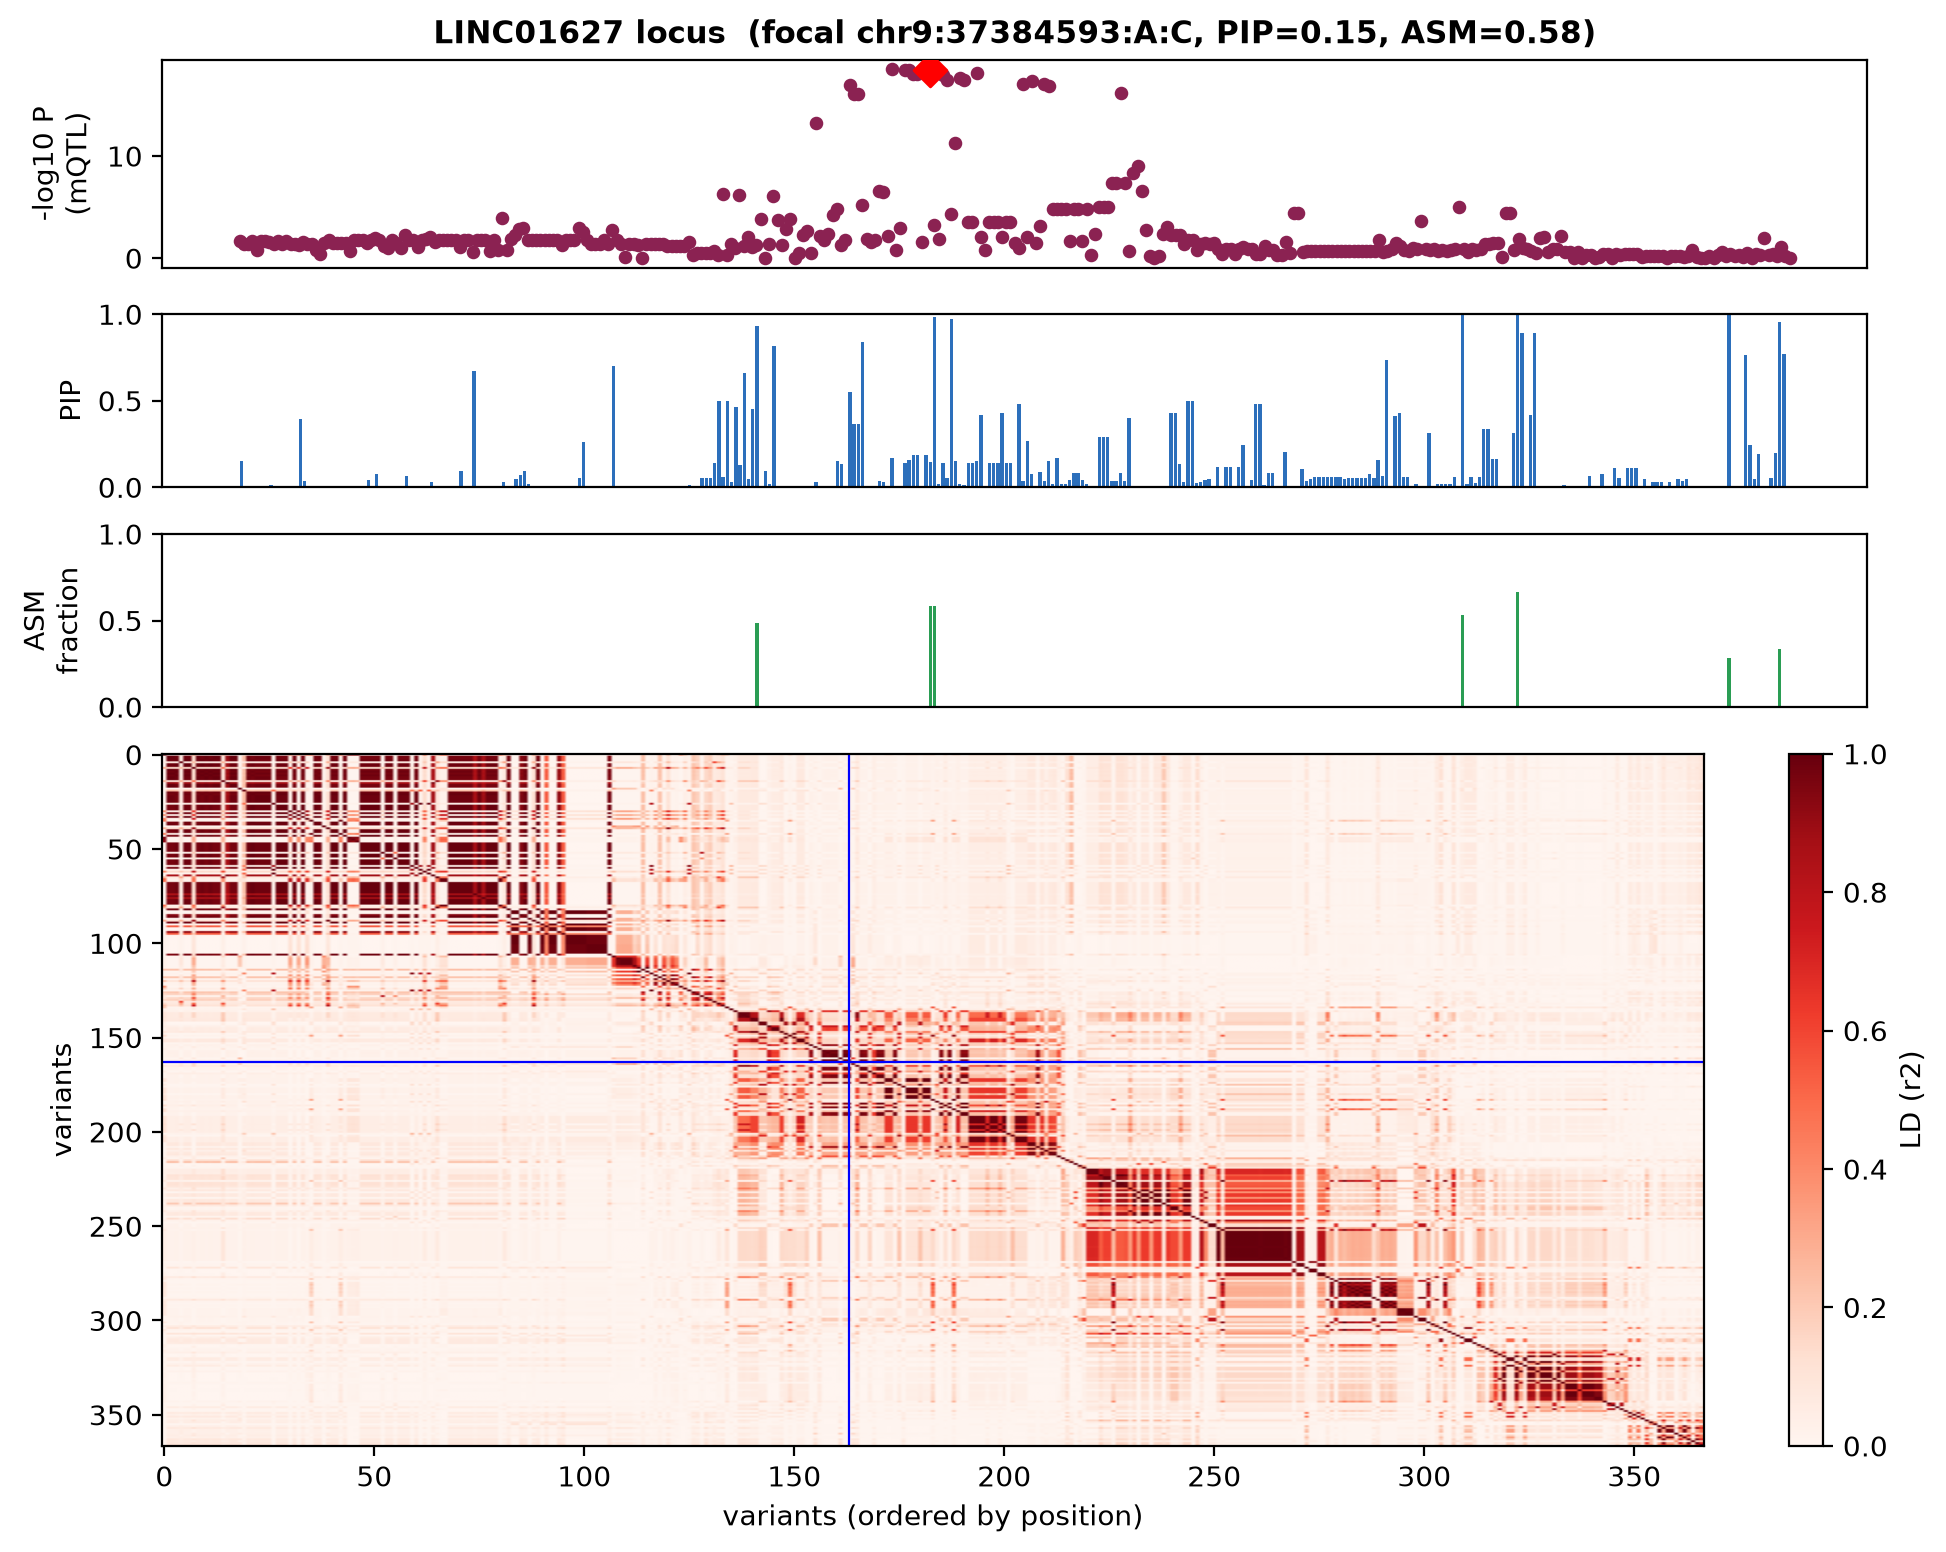
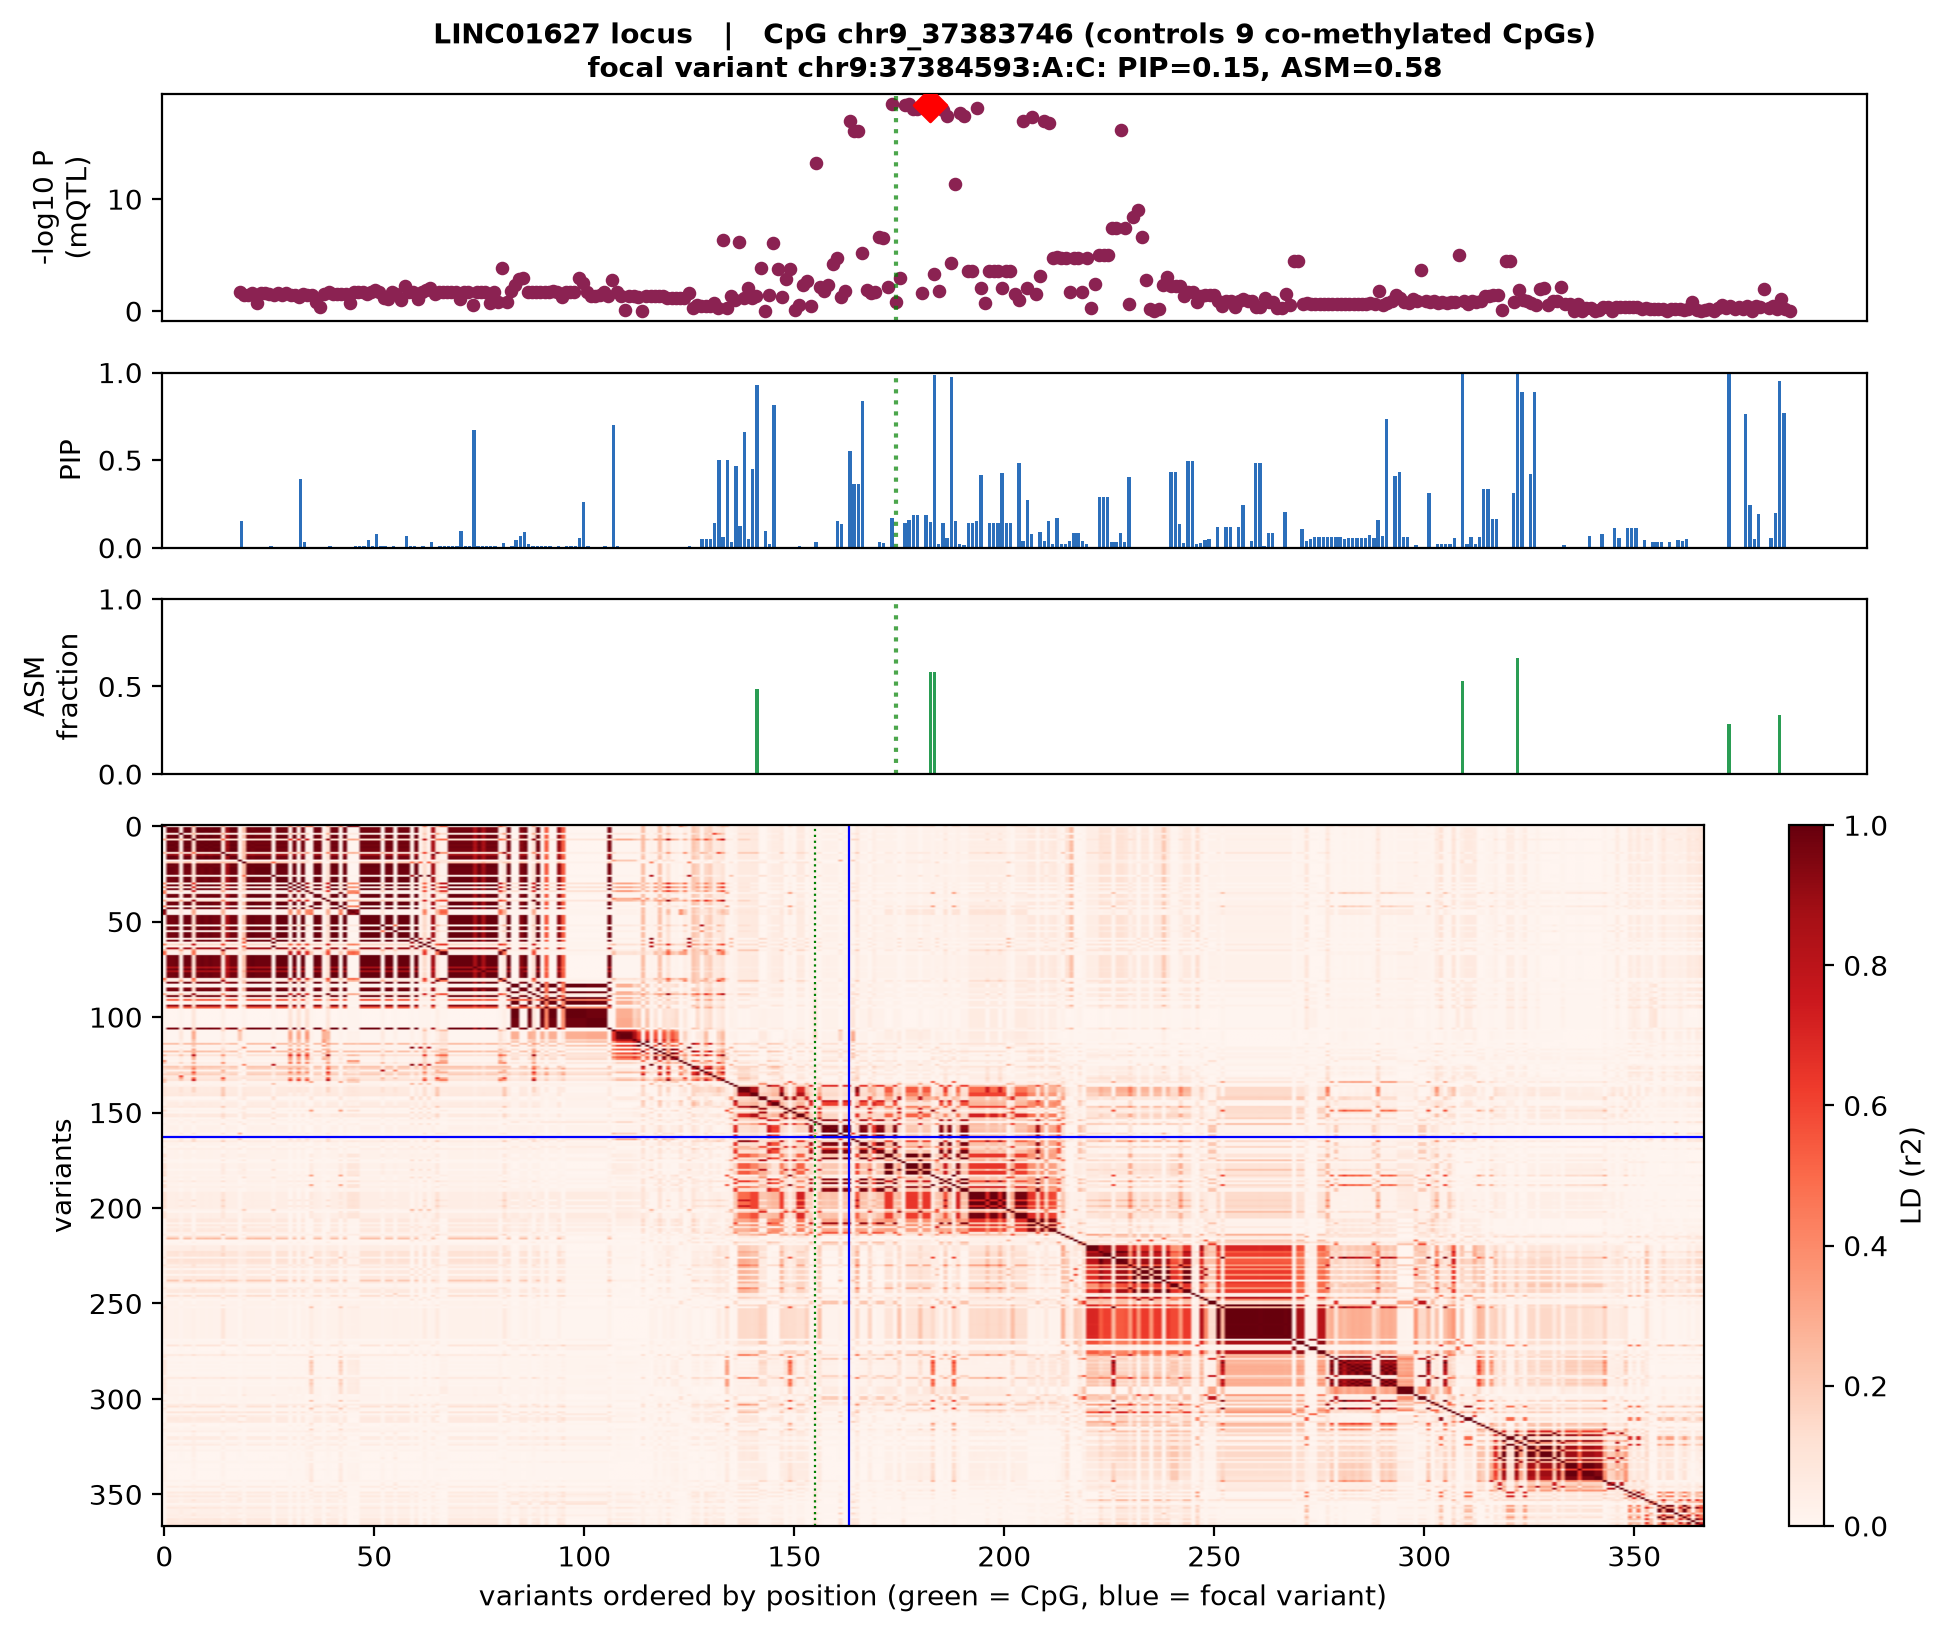
LD block plots: add CpG context (CpG ID + n_cpgs co-methylation domain + CpG position marker across all tracks)

diff --git a/scripts/coloc/ld_block_plot.py b/scripts/coloc/ld_block_plot.py
@@ -5,7 +5,11 @@ from pandas_plink import read_plink1_bin
 plt.rcParams.update({"font.size":10,"savefig.dpi":200,"savefig.bbox":"tight","figure.facecolor":"white"})
 G="/g/data/cy94/rs4477/downstream/genome_452"
 focal=sys.argv[1]; cpg=sys.argv[2]; gene=sys.argv[3]; out=sys.argv[4]; win=int(sys.argv[5]) if len(sys.argv)>5 else 50000
-chrom=focal.split(':')[0]; fpos=int(focal.split(':')[1])
+chrom=focal.split(':')[0]; fpos=int(focal.split(':')[1]); cpg_pos=int(cpg.split('_')[1])
+try:
+    e=pd.read_csv(G+"/genome.prioritised_variant_level.enriched.txt.gz",sep="\t",usecols=['variant_id','n_cpgs'])
+    ncpg=int(e[e.variant_id==focal].n_cpgs.max()) if (e.variant_id==focal).any() else 0
+except: ncpg=0
 pth=f"{G}/{chrom}/nominal/{chrom}.sig.cis_qtl_pairs.{chrom}.parquet"
 if chrom in ['chr1','chr2']: pth=f"{G}/{chrom}/nominal/{chrom}.sig.merged.parquet"
 pf=pq.ParquetFile(pth); fr=[]
@@ -15,26 +19,29 @@ for i in range(pf.num_row_groups):
 m=pd.concat(fr)
 p=m.variant_id.str.split(':',expand=True); m['pos']=p[1].astype(int)
 m=m[(m.pos>fpos-win)&(m.pos<fpos+win)].sort_values('pos').reset_index(drop=True)
-if len(m)<3: print("too few variants:",len(m)); sys.exit()
+if len(m)<3: print("too few:",len(m)); sys.exit()
 bf=f"/scratch/cy94/rs4477/coloc/ldref/{chrom}"
 Gb=read_plink1_bin(bf+".bed",bf+".bim",bf+".fam",verbose=False)
 avail=set(Gb.snp.values); m=m[m.variant_id.isin(avail)].reset_index(drop=True)
-if len(m)<3: print("too few after LD filter"); sys.exit()
+if len(m)<3: print("too few after LD"); sys.exit()
 sub=Gb.sel(snp=list(m.variant_id)).values.astype(float)
 cmn=np.nanmean(sub,axis=0); inds=np.where(np.isnan(sub)); sub[inds]=np.take(cmn,inds[1])
 ld=np.corrcoef(sub.T)**2
 cl=pd.read_csv(G+"/genome.prioritised_final_asm_classified.txt.gz",sep="\t",usecols=['variant_id','pip','asm_frac_fisher'])
 m=m.merge(cl,on='variant_id',how='left')
 n=len(m); x=np.arange(n)
-fig=plt.figure(figsize=(11,9)); gs=GridSpec(4,1,height_ratios=[1.2,1,1,4],hspace=0.15)
+cpg_idx=int(np.argmin(np.abs(m.pos.values-cpg_pos)))
 fi=list(m.variant_id).index(focal) if focal in list(m.variant_id) else int(np.argmax(-np.log10(m.pval_nominal)))
+fig=plt.figure(figsize=(11,9.3)); gs=GridSpec(4,1,height_ratios=[1.3,1,1,4],hspace=0.16)
 ax0=fig.add_subplot(gs[0]); ax0.scatter(x,-np.log10(m.pval_nominal),c='#8B2252',s=15)
 ax0.scatter(fi,-np.log10(m.pval_nominal.iloc[fi]),c='red',s=70,marker='D',zorder=5)
-ax0.set_ylabel('-log10 P\n(mQTL)'); ax0.set_xticks([]); ax0.set_title(f'{gene} locus  (focal {focal}, PIP={m.pip.iloc[fi]:.2f}, ASM={m.asm_frac_fisher.iloc[fi]:.2f})',fontweight='bold',fontsize=11)
-ax1=fig.add_subplot(gs[1]); ax1.bar(x,m.pip.fillna(0),color='#2c6fbb'); ax1.set_ylabel('PIP'); ax1.set_xticks([]); ax1.set_ylim(0,1)
-ax2=fig.add_subplot(gs[2]); ax2.bar(x,m.asm_frac_fisher.fillna(0),color='#2a9d54'); ax2.set_ylabel('ASM\nfraction'); ax2.set_xticks([]); ax2.set_ylim(0,1)
+ax0.axvline(cpg_idx,color='green',ls=':',lw=1.5,alpha=0.7)
+ax0.set_ylabel('-log10 P\n(mQTL)'); ax0.set_xticks([])
+ax0.set_title(f'{gene} locus   |   CpG {cpg} (controls {ncpg} co-methylated CpGs)\nfocal variant {focal}: PIP={m.pip.iloc[fi]:.2f}, ASM={m.asm_frac_fisher.iloc[fi]:.2f}',fontweight='bold',fontsize=10)
+ax1=fig.add_subplot(gs[1]); ax1.bar(x,m.pip.fillna(0),color='#2c6fbb'); ax1.axvline(cpg_idx,color='green',ls=':',lw=1.5,alpha=0.7); ax1.set_ylabel('PIP'); ax1.set_xticks([]); ax1.set_ylim(0,1)
+ax2=fig.add_subplot(gs[2]); ax2.bar(x,m.asm_frac_fisher.fillna(0),color='#2a9d54'); ax2.axvline(cpg_idx,color='green',ls=':',lw=1.5,alpha=0.7); ax2.set_ylabel('ASM\nfraction'); ax2.set_xticks([]); ax2.set_ylim(0,1)
 ax3=fig.add_subplot(gs[3]); im=ax3.imshow(ld,cmap='Reds',aspect='auto',vmin=0,vmax=1)
-ax3.axvline(fi,color='blue',lw=0.8); ax3.axhline(fi,color='blue',lw=0.8)
-ax3.set_xlabel('variants (ordered by position)'); ax3.set_ylabel('variants')
+ax3.axvline(fi,color='blue',lw=0.8); ax3.axhline(fi,color='blue',lw=0.8); ax3.axvline(cpg_idx,color='green',lw=0.8,ls=':')
+ax3.set_xlabel('variants ordered by position (green = CpG, blue = focal variant)'); ax3.set_ylabel('variants')
 plt.colorbar(im,ax=ax3,label='LD (r2)',fraction=0.046)
-plt.savefig(out); print(f"saved {out}: {n} variants, focal PIP={m.pip.iloc[fi]:.2f} ASM={m.asm_frac_fisher.iloc[fi]:.2f}")
+plt.savefig(out); print(f"saved: {n} vars, CpG {cpg} controls {ncpg} CpGs, focal PIP={m.pip.iloc[fi]:.2f} ASM={m.asm_frac_fisher.iloc[fi]:.2f}")
